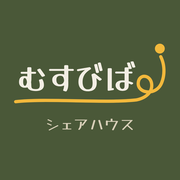
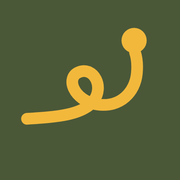
ファビコンを糸だけのアイコンに変更

Changed region(s): [[0.0556, 0.1389, 0.9444, 0.7222]]

diff --git a/index.html b/index.html
@@ -23,9 +23,9 @@
 <link rel="preconnect" href="https://fonts.googleapis.com">
 <link rel="preconnect" href="https://fonts.gstatic.com" crossorigin>
 <link rel="stylesheet" href="https://fonts.googleapis.com/css2?family=Yusei+Magic&family=Noto+Sans+JP:wght@400;500;700&display=swap">
-<link rel="icon" href="/favicon.ico?v=3" sizes="48x48">
-<link rel="icon" href="/favicon-192.png?v=3" type="image/png" sizes="192x192">
-<link rel="apple-touch-icon" href="/apple-touch-icon.png?v=3">
+<link rel="icon" href="/favicon.ico?v=4" sizes="48x48">
+<link rel="icon" href="/favicon-192.png?v=4" type="image/png" sizes="192x192">
+<link rel="apple-touch-icon" href="/apple-touch-icon.png?v=4">
 <style>
 /* Layout: むすびばのブランド(オリーブ・からし・生成り、Yusei Magic)。オリーブのヒーローに町の稜線、その下は生成りの地に写真が並ぶ1カラム。 */
 :root{
